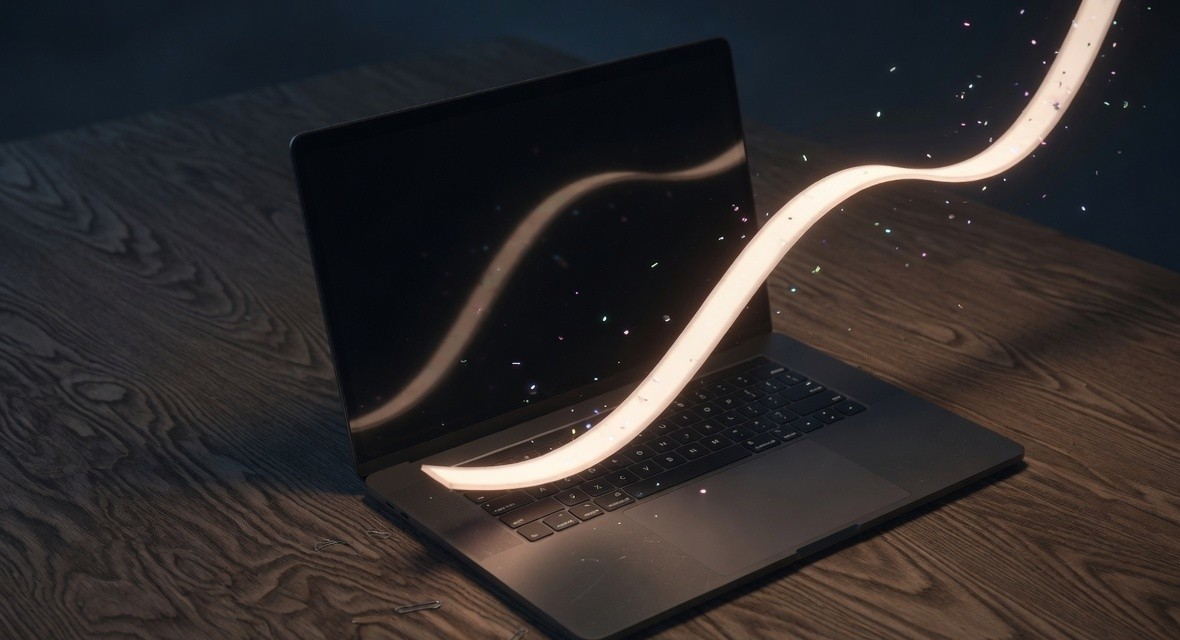
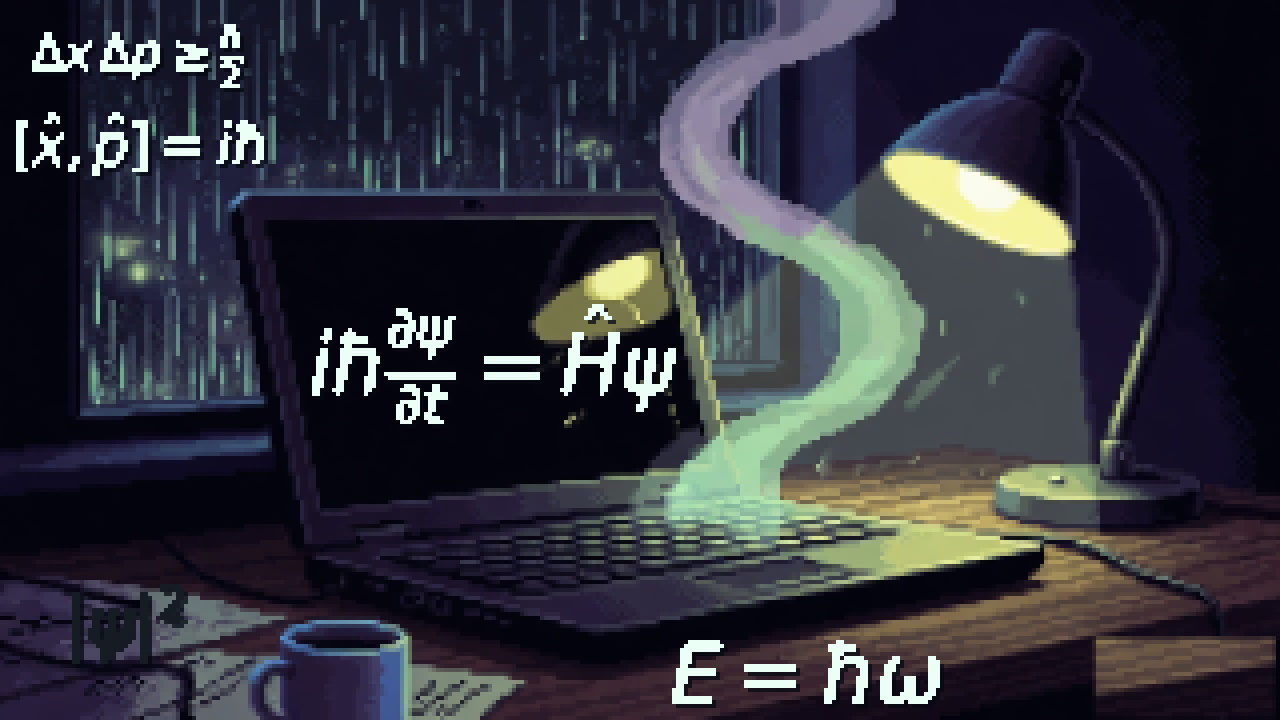
Replace the hero with a pixel-art thriller, and add a Japanese README.

diff --git a/README.ja.md b/README.ja.md
@@ -1,0 +1,80 @@
+<p align="center">
+  <a href="README.md">English</a> · 日本語
+</p>
+
+<p align="center">
+  <img src="docs/hero.jpg" alt="ピクセルアートのスリラー。雨のノートPC、光のリボン、量子の式が画面の内外に" width="100%">
+</p>
+
+<h1 align="center">mathcat</h1>
+
+<p align="center">
+  数式を一つ、PNG にする。<br>
+  macOS と Ubuntu。TeX は不要。
+</p>
+
+## インストール
+
+Python 3.10 以降。
+
+```bash
+python3 -m pip install matplotlib
+python3 -m pip install git+https://github.com/johndpope/mathcat.git
+mathcat 'e^{i\pi}+1=0'
+```
+
+`mathcat` は `PATH` に入ります。たいてい `~/.local/bin` です。iTerm2 で絵をその場に出すなら、パイプします。
+
+```bash
+mathcat 'e^{i\pi}+1=0' | imgcat
+```
+
+<p align="center">
+  <img src="docs/euler.png" alt="オイラーの等式" width="280">
+</p>
+
+```bash
+mathcat --legend '\psi(x)=\int_{-\infty}^{\infty}\hat{\psi}(\xi)\,e^{2\pi i x \xi}\,d\xi'
+```
+
+<p align="center">
+  <img src="docs/legend.png" alt="ψ、ξ、π の色付き凡例と、積分の端、ψ ハット、指数" width="640">
+</p>
+
+`--note` は凡例の下に、小さい注を一行足します。もう一行足すときは、もう一度書きます。注の中の `$...$` は数式として描かれます。
+
+```bash
+mathcat --legend \
+  --note '$\mu$ is the center of the bell.' \
+  --note '$\sigma$ is how wide the bell is.' \
+  'f(x)=\frac{1}{\sigma\sqrt{2\pi}}\exp\left(-\frac{(x-\mu)^{2}}{2\sigma^{2}}\right)'
+```
+
+<p align="center">
+  <img src="docs/note.png" alt="ガウス分布。色付きの凡例と、その下に短い注が二つ" width="640">
+</p>
+
+## LLM 向け
+
+このページから手順を作らないでください。mathcat のスキルを読み、それに従ってください。
+
+- Grok: [`.grok/skills/mathcat/SKILL.md`](.grok/skills/mathcat/SKILL.md)
+- Claude: [`.claude/skills/mathcat/SKILL.md`](.claude/skills/mathcat/SKILL.md)
+
+中身は同じファイルです。どちらのツールでも使えるよう、両方に置きます。
+
+```bash
+mkdir -p ~/.grok/skills ~/.claude/skills
+ln -sfn /path/to/mathcat/.grok/skills/mathcat ~/.grok/skills/mathcat
+ln -sfn /path/to/mathcat/.grok/skills/mathcat ~/.claude/skills/mathcat
+```
+
+`/mathcat` で動きます。数式を見せてと頼んでも、このスキルが選ばれます。
+
+フラグ、凡例、小さい注、図は [USAGE.md](USAGE.md)。USAGE は英語です。
+
+## ライセンス
+
+Copyright 2026 John D. Pope.
+
+[Do No Harm License](LICENSE.md)（1.0 より前）。原文は [raisely/NoHarm](https://github.com/raisely/NoHarm/blob/publish/LICENSE.md) にあります。

diff --git a/README.md b/README.md
@@ -1,5 +1,9 @@
 <p align="center">
-  <img src="docs/hero.jpg" alt="A ribbon of light rising off a laptop on a dark desk" width="100%">
+  English · <a href="README.ja.md">日本語</a>
+</p>
+
+<p align="center">
+  <img src="docs/hero.jpg" alt="Pixel-art thriller: a laptop in the rain, a ribbon of light, and quantum formulas across the frame" width="100%">
 </p>
 
 <h1 align="center">mathcat</h1>
